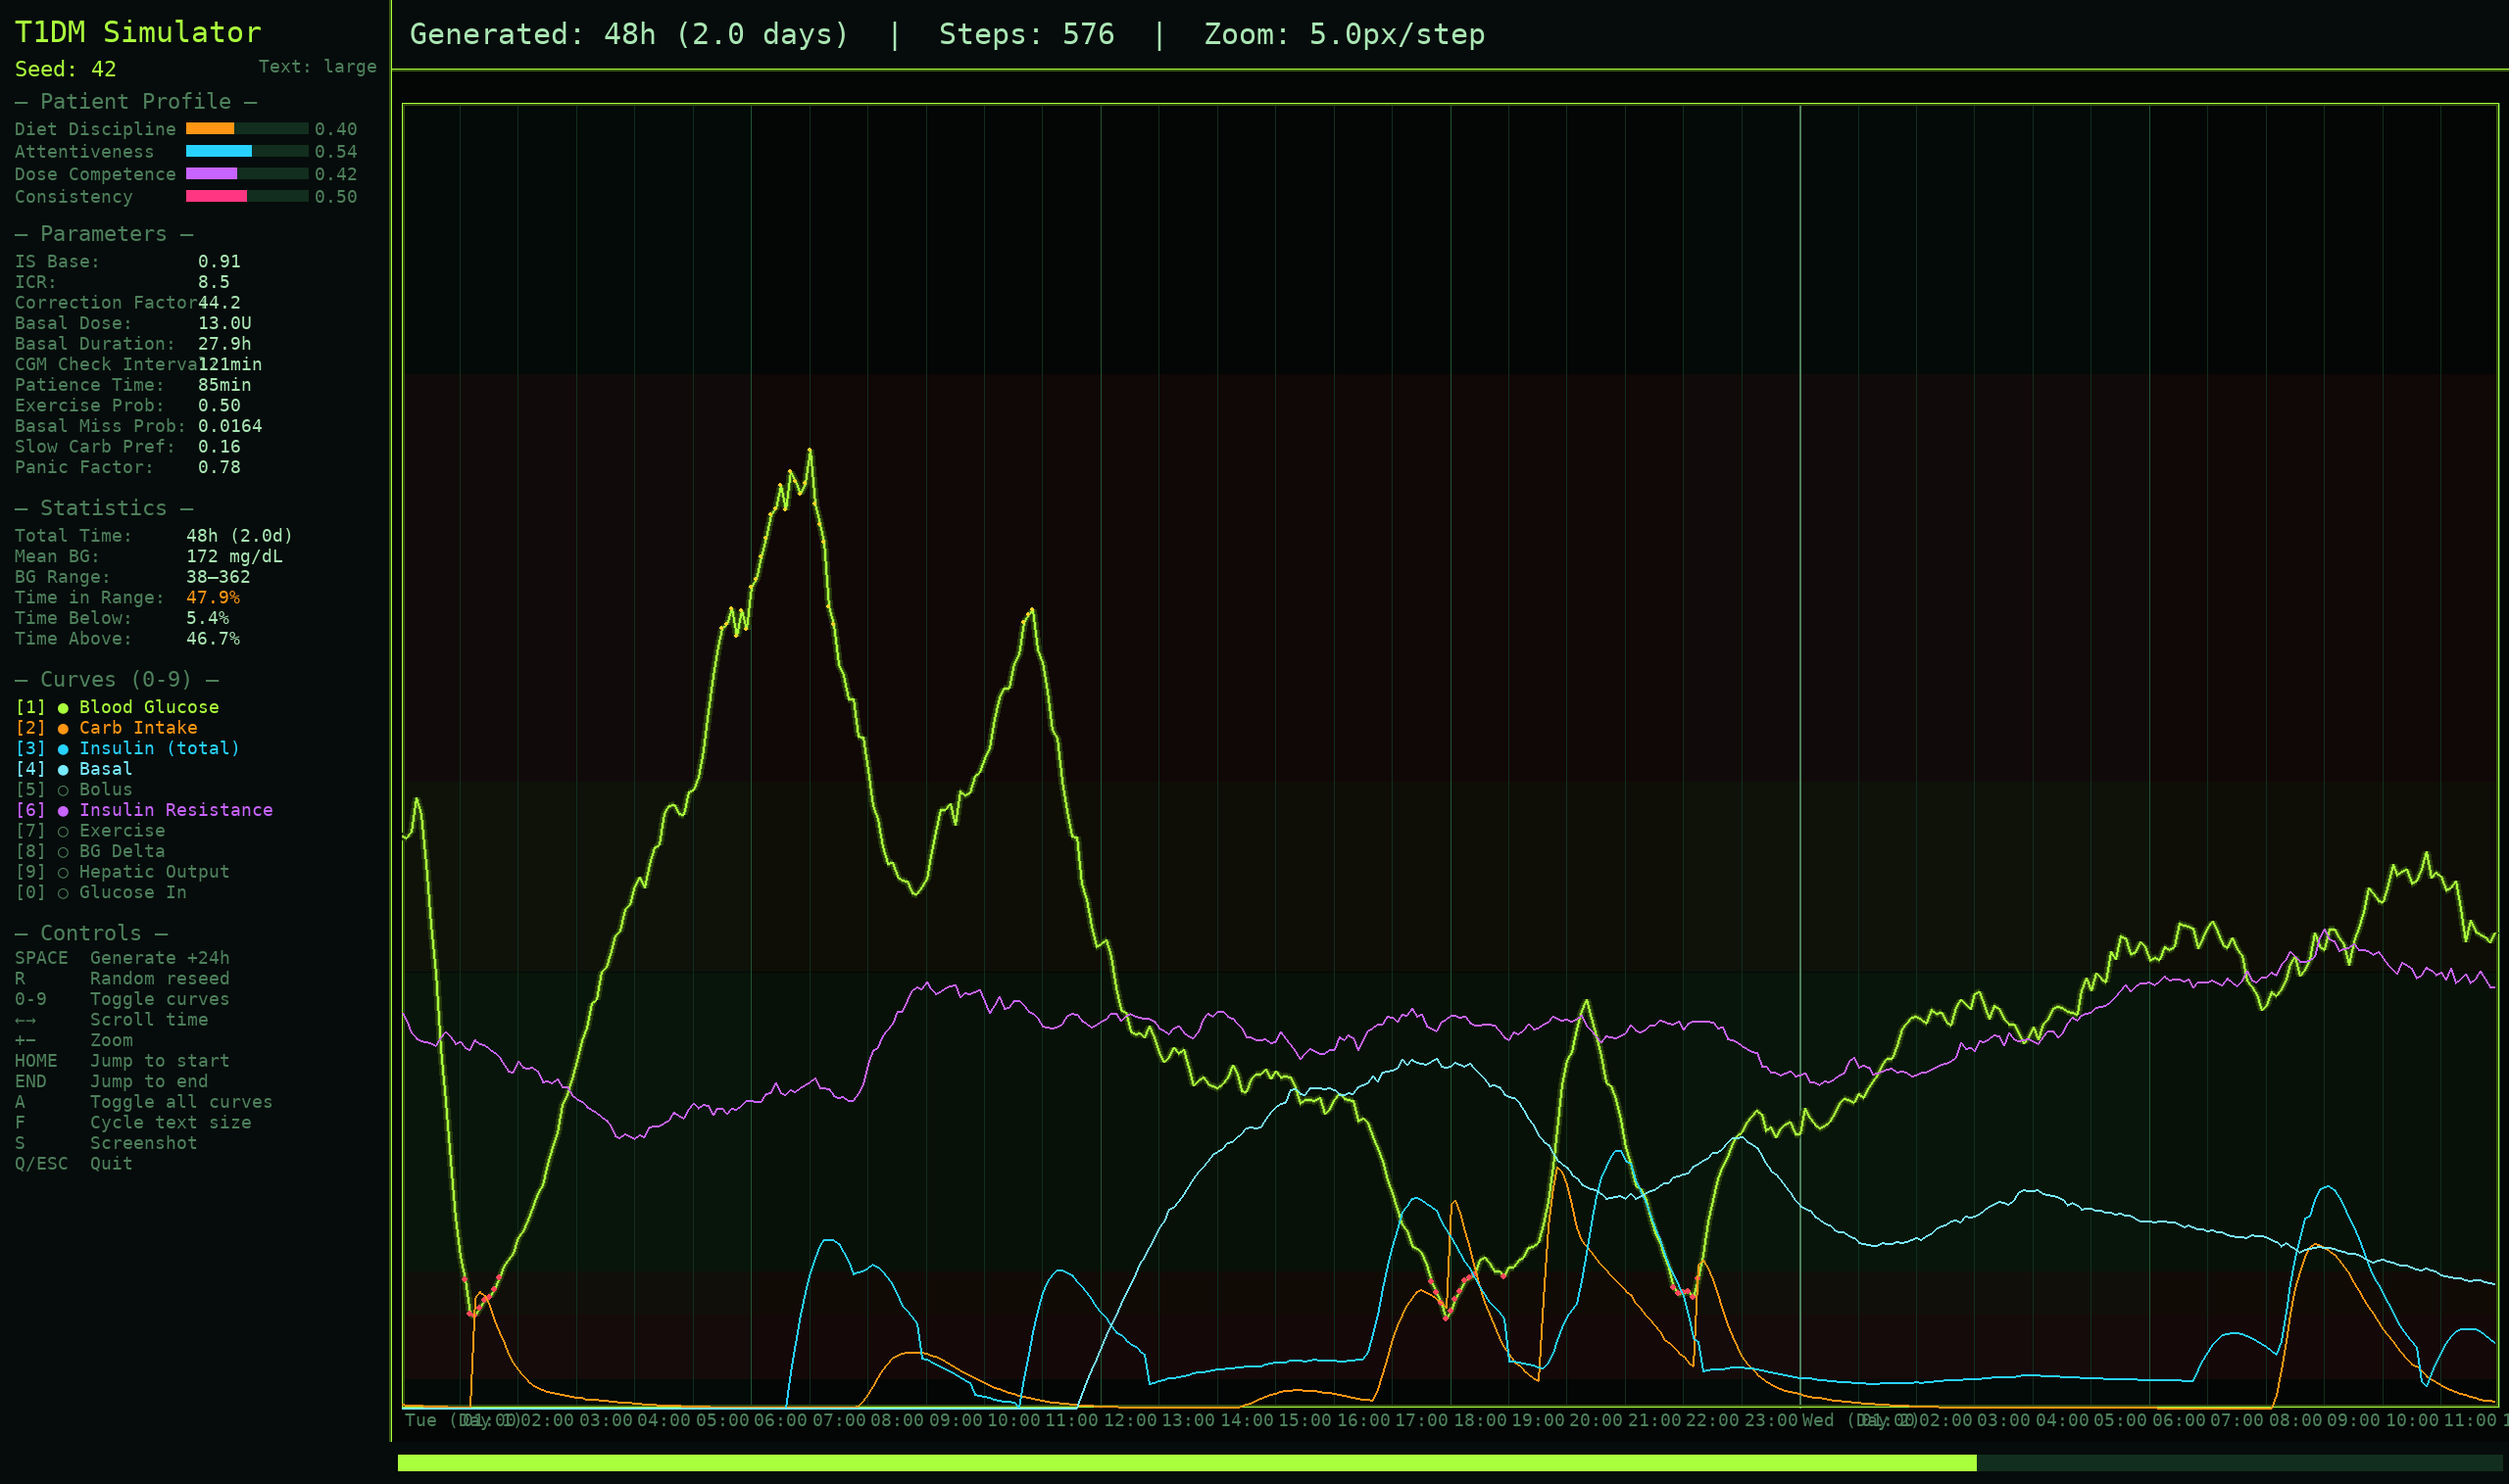
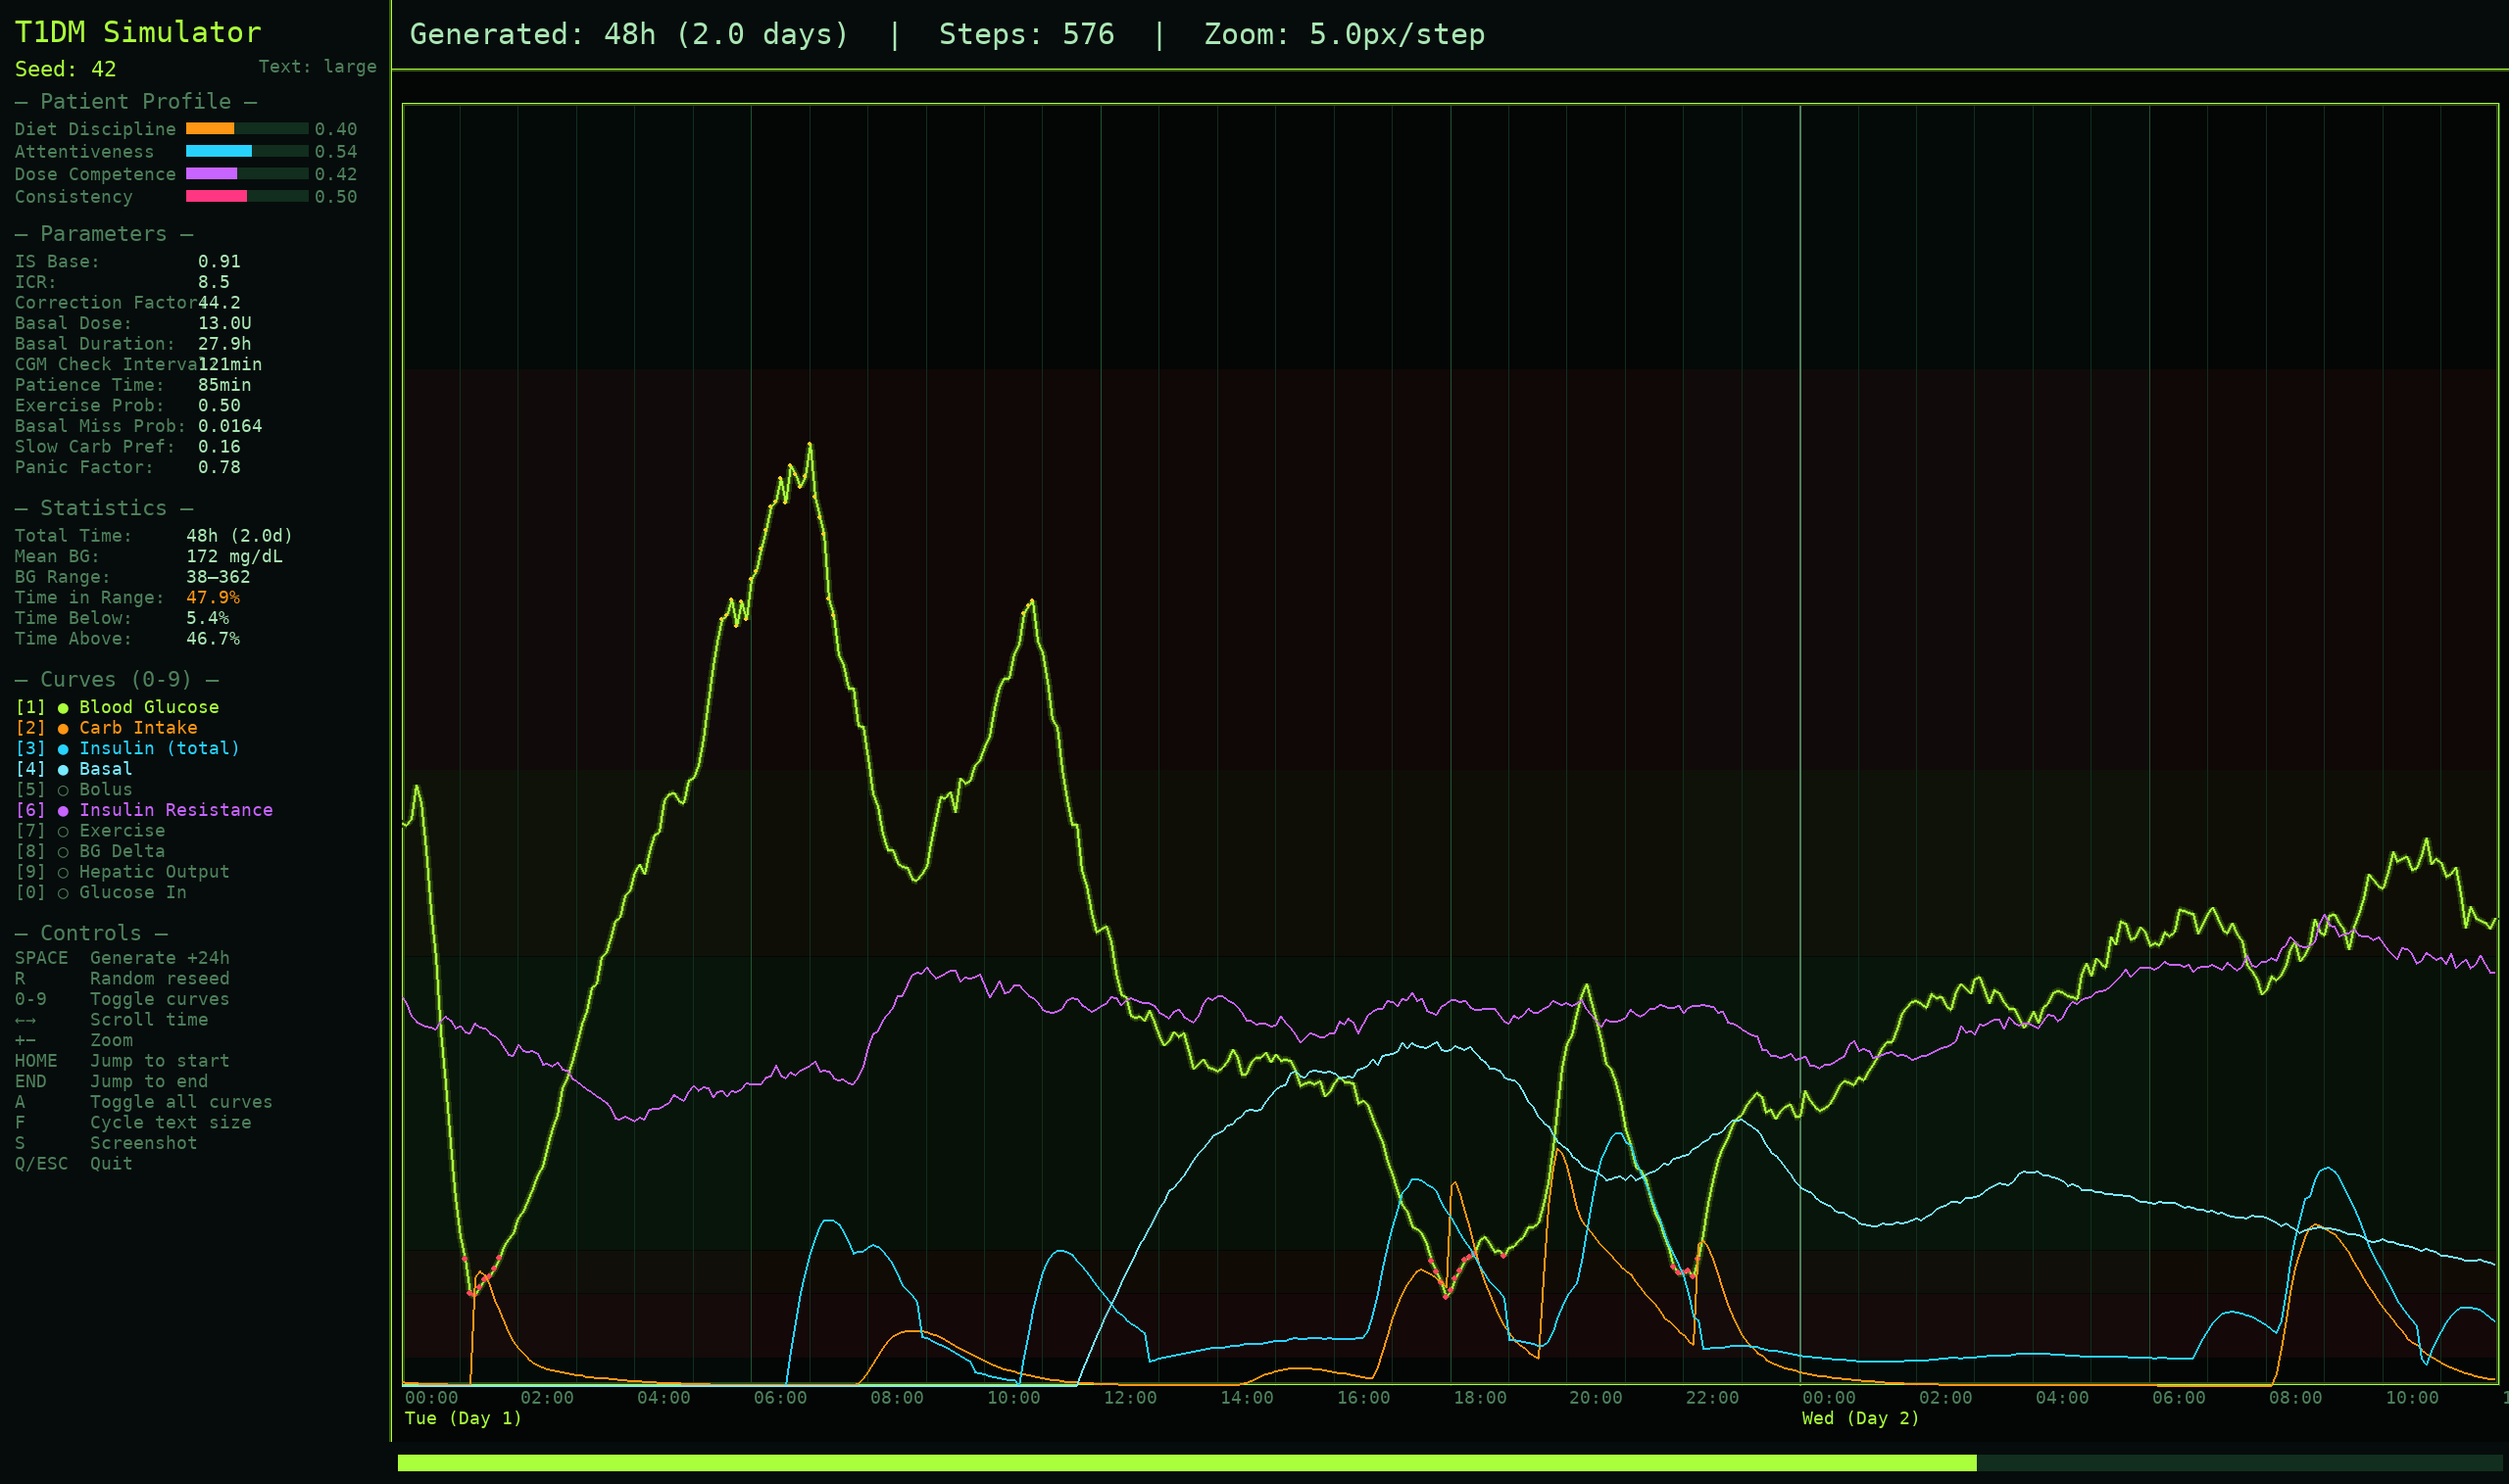
Fix the visualizer x-axis so day markers and hour labels no longer collide (two-tier axis with adaptive hour-label thinning), and refresh the README screenshot.

diff --git a/visualizer.py b/visualizer.py
@@ -273,7 +273,7 @@ class Visualizer:
         # Footer must hold the scrollbar; chart leaves room for X-axis time labels above
         # the footer and curve-name labels above the chart, so they never collide.
         self.footer_height = max(int(BASE_FOOTER_HEIGHT * mult), self.font_sm.get_linesize() + int(18 * mult))
-        self.time_label_height = self.font_sm.get_linesize() + 4
+        self.time_label_height = self.font_sm.get_linesize() * 2 + 6  # hour row + day row
         self.curve_label_height = self.font_sm.get_linesize() + 4
 
     def _s(self, n):
@@ -551,9 +551,19 @@ class Visualizer:
             interval_steps = 12 * 6  # 6 hours
             major_interval = STEPS_PER_DAY  # 24 hours
 
-        # Vertical grid lines (time)
+        # Vertical grid lines (time) + a two-row X axis: hour labels on the
+        # first row, the wider "Tue (Day N)" day marker on a second row below it
+        # (in the accent colour), so the day string never collides with the
+        # dense hourly ticks. Hour labels are thinned when the per-tick spacing
+        # is narrower than a label.
+        label_y = chart.y + chart.height + 2
+        day_y = label_y + self.font_sm.get_linesize()
+        hour_label_w = self.font_sm.size("00:00")[0] + self._s(8)
+        step_px = max(1.0, interval_steps * self.pixels_per_step)
+        hour_every = max(1, int(np.ceil(hour_label_w / step_px)))
+
         first_line = (start // interval_steps) * interval_steps
-        for step in range(first_line, end + 1, interval_steps):
+        for tick, step in enumerate(range(first_line, end + 1, interval_steps)):
             px = self._step_to_x(step, chart)
             if px < chart.x or px > chart.x + chart.width:
                 continue
@@ -563,14 +573,14 @@ class Visualizer:
             width = 2 if is_day else 1
             pygame.draw.line(self.buffer, color, (int(px), chart.y), (int(px), chart.y + chart.height), width)
 
-            # Time label
-            label = format_time(step)
+            if is_day or tick % hour_every == 0:
+                draw_text(self.buffer, self.font_sm, format_time(step),
+                          int(px) + 3, label_y, TEXT_DIM)
             if is_day:
                 day_num = step // STEPS_PER_DAY + 1
                 dow = (DISPLAY_START_DOW + (step // STEPS_PER_DAY)) % 7
-                label = f"{DAY_NAMES[dow]} (Day {day_num})"
-            draw_text(self.buffer, self.font_sm, label,
-                      int(px) + 3, chart.y + chart.height + 2, TEXT_DIM)
+                draw_text(self.buffer, self.font_sm, f"{DAY_NAMES[dow]} (Day {day_num})",
+                          int(px) + 3, day_y, ACCENT)
 
         # Y axis for visible curves — draw on right side of each curve's area
         # We'll draw Y labels on the far right
